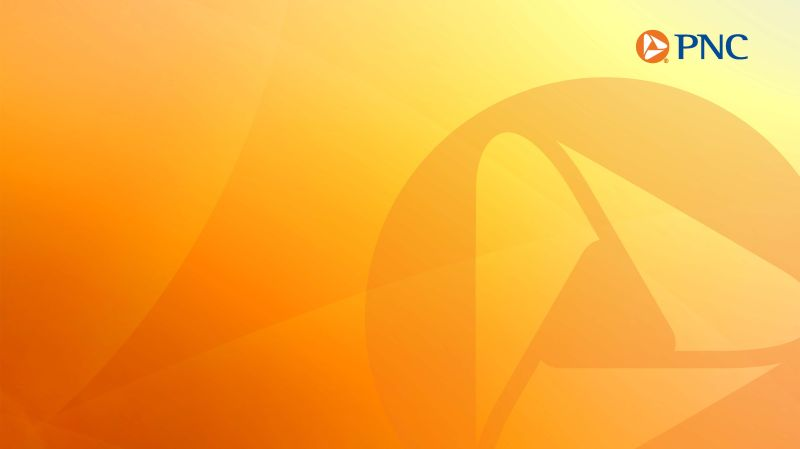
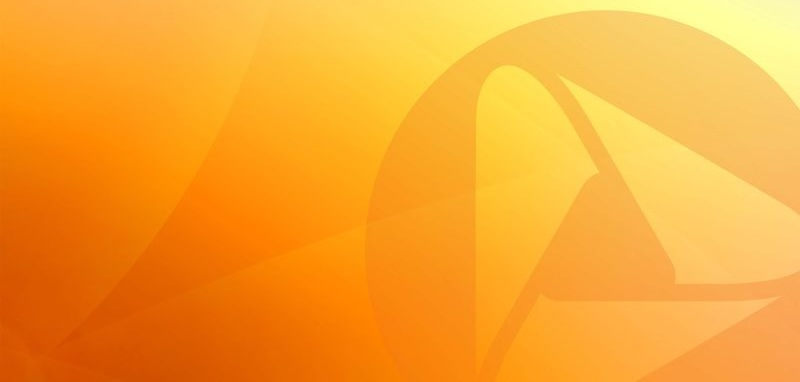
iphone frame

diff --git a/public/css/landing.css b/public/css/landing.css
@@ -40,10 +40,11 @@ header nav ul li a {
     background-image: url('/images/pnc_background.jpeg');
     background-size: cover;
     background-position: center;
-    padding: 250px 20px;
-    display: flex;
+    padding: 200px 100px;
+    display: absolute;
     align-items: center;
     justify-content: space-around;
+    min-height: 400px
 }
 
 .hero-content {
@@ -52,9 +53,32 @@ header nav ul li a {
     align-items: center;
 }
 
-.hero-image img {
-    width: 40%; /* Adjust based on the size of the phone image */
+.hero-image {
+    position: relative; /* Maintain relative positioning */
+    width: 40%; /* Control the overall size of the container */
+    max-width: 300px; /* Set a maximum width to keep it responsive */
+    align-self: center; /* Center the phone within the hero section vertically */
+    margin-left: 20%; /* Add space from the left */
+    margin-top: 50px; /* Adjust vertical spacing as necessary */
 }
+
+.phone-frame {
+    width: 100%; /* Make the phone frame fill the container */
+    display: block; /* Remove bottom space/gap */
+    transform: scale(2.5); /* Scale the image up by 2.5 times */
+    transform-origin: top center; /* Ensure the scaling centers from the top middle */
+    margin-top: -220px; /* Adjust vertical spacing as necessary */
+}
+
+.phone-screen-content {
+    position: absolute; /* Absolute positioning to place it over the phone frame */
+    top: 15%; /* Adjust the top position to align with the phone screen's top edge */
+    left: 10%; /* Adjust the left position to align with the phone screen's left edge */
+    width: 80%; /* Adjust the width to fit the screen area */
+    height: 70%; /* Adjust the height to fit the screen area */
+    object-fit: cover; /* Cover the area without distorting the aspect ratio */
+}
+
 
 .hero-text {
     width: 60%;
